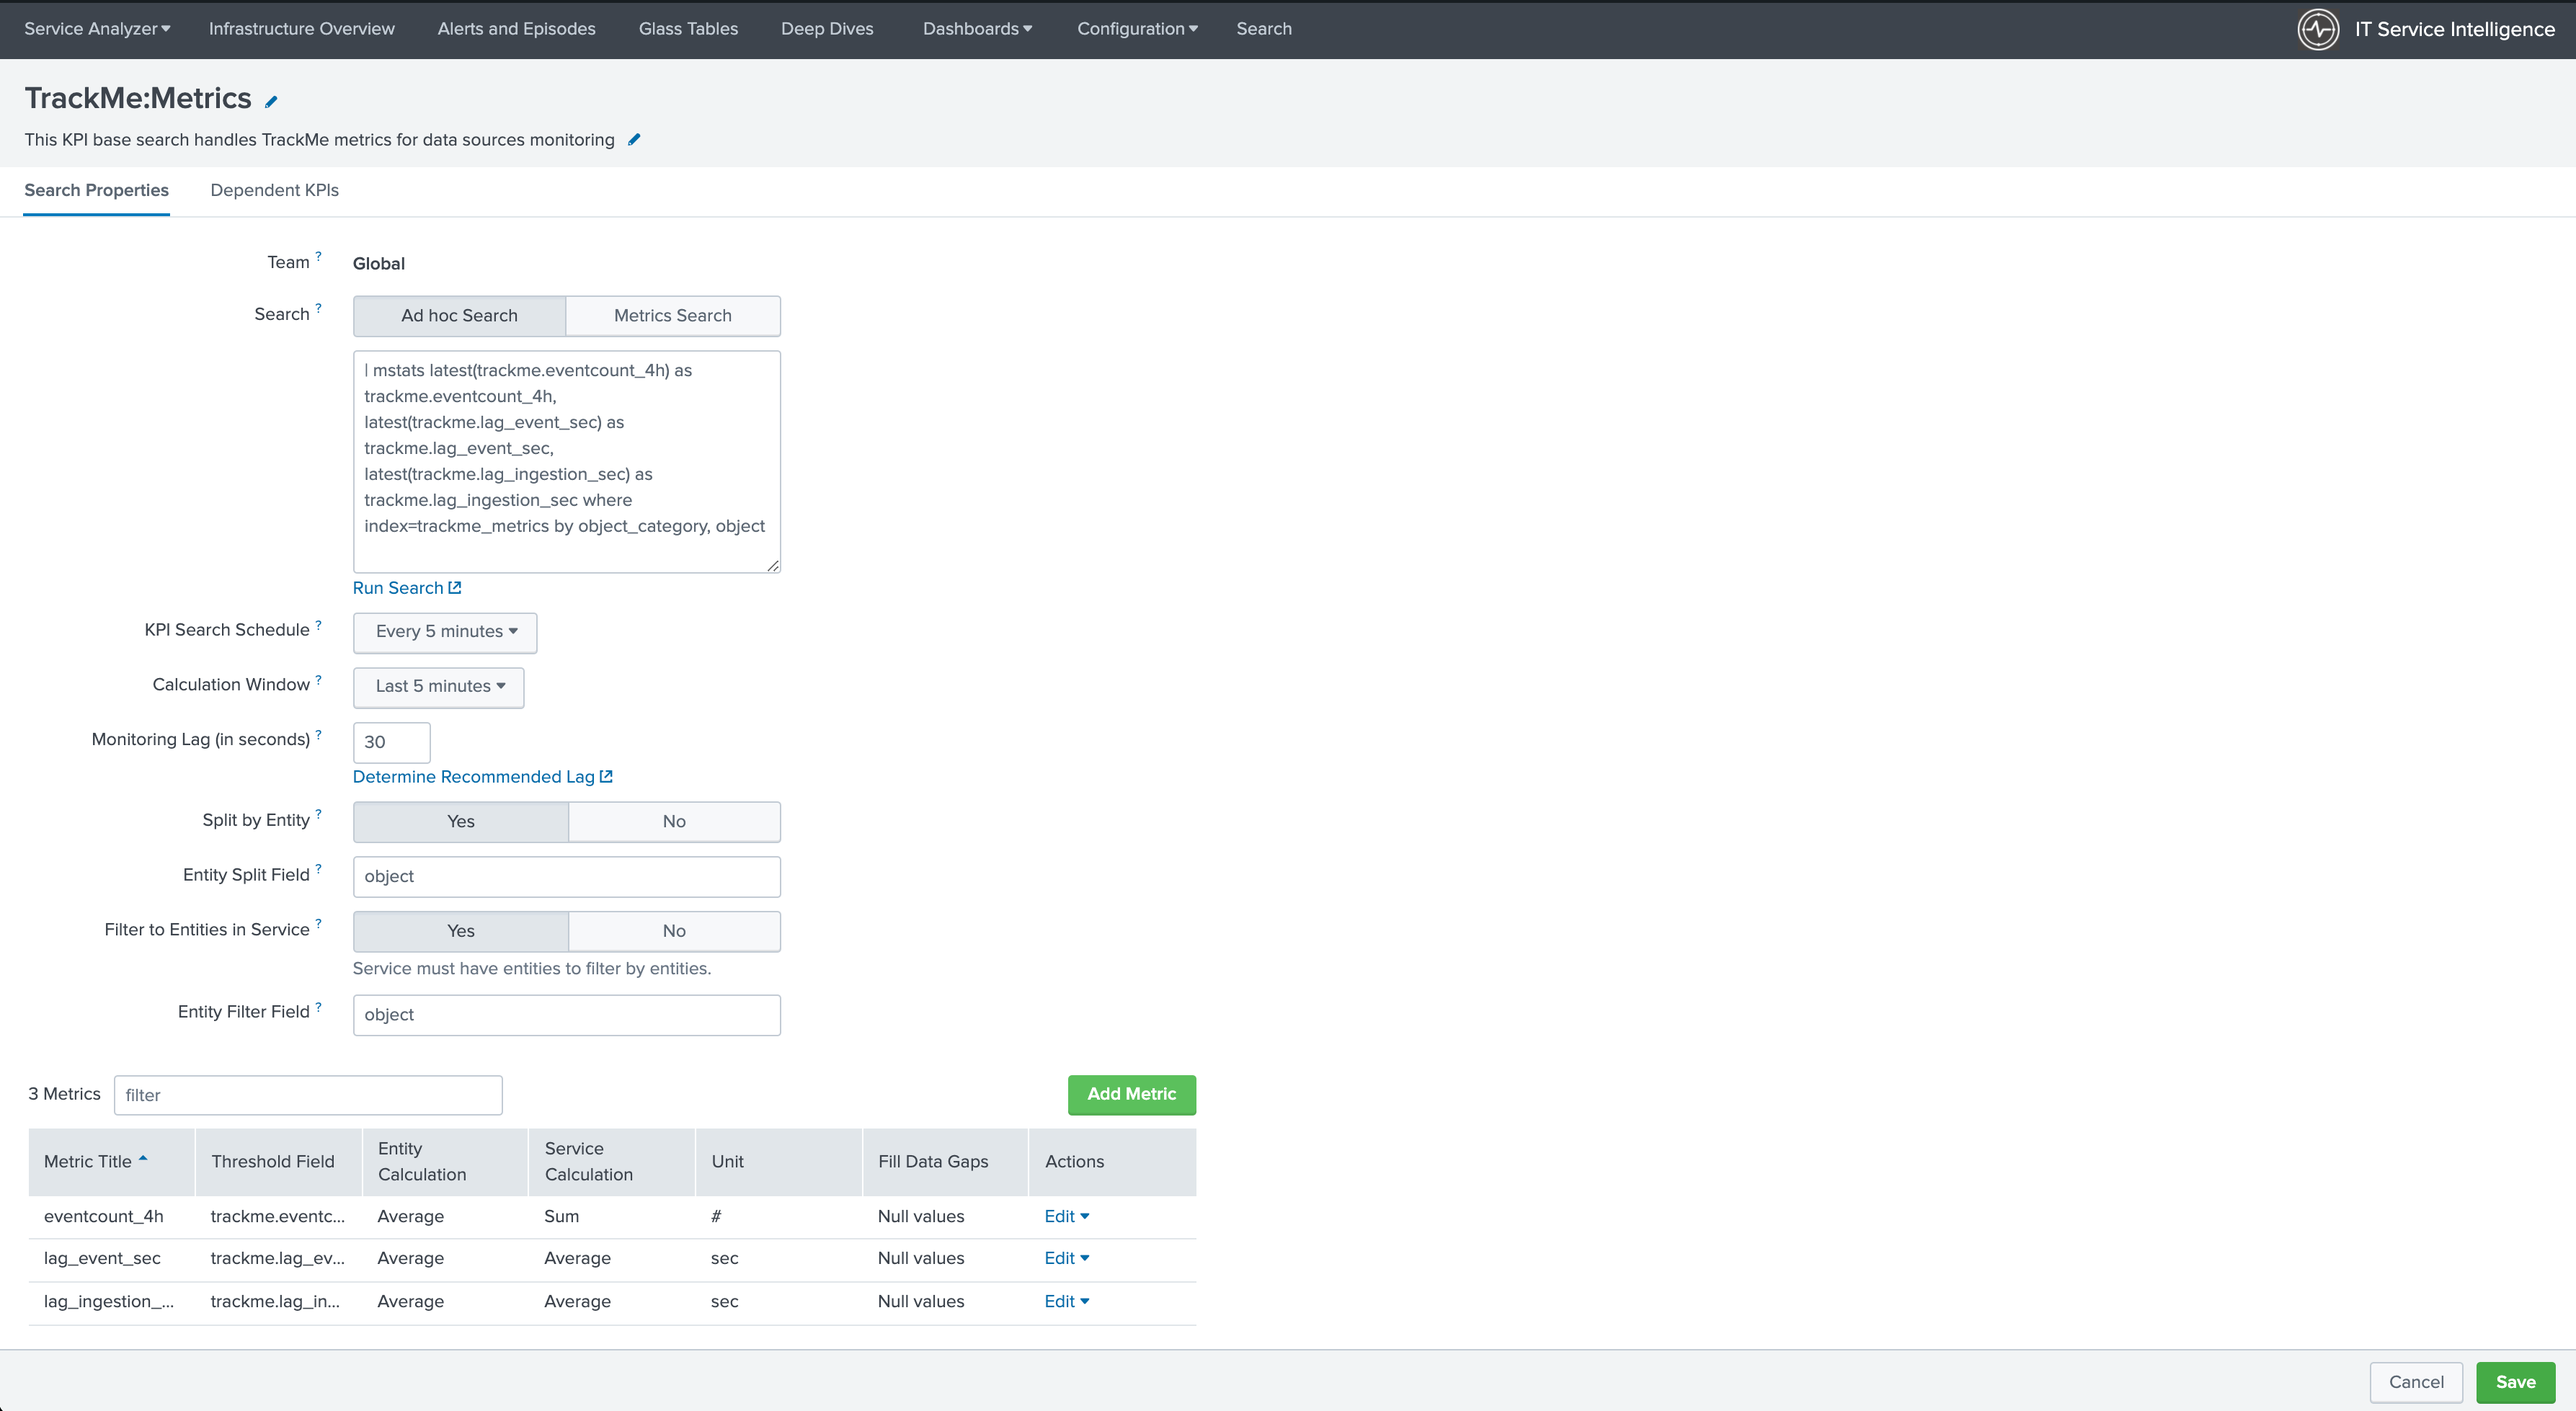
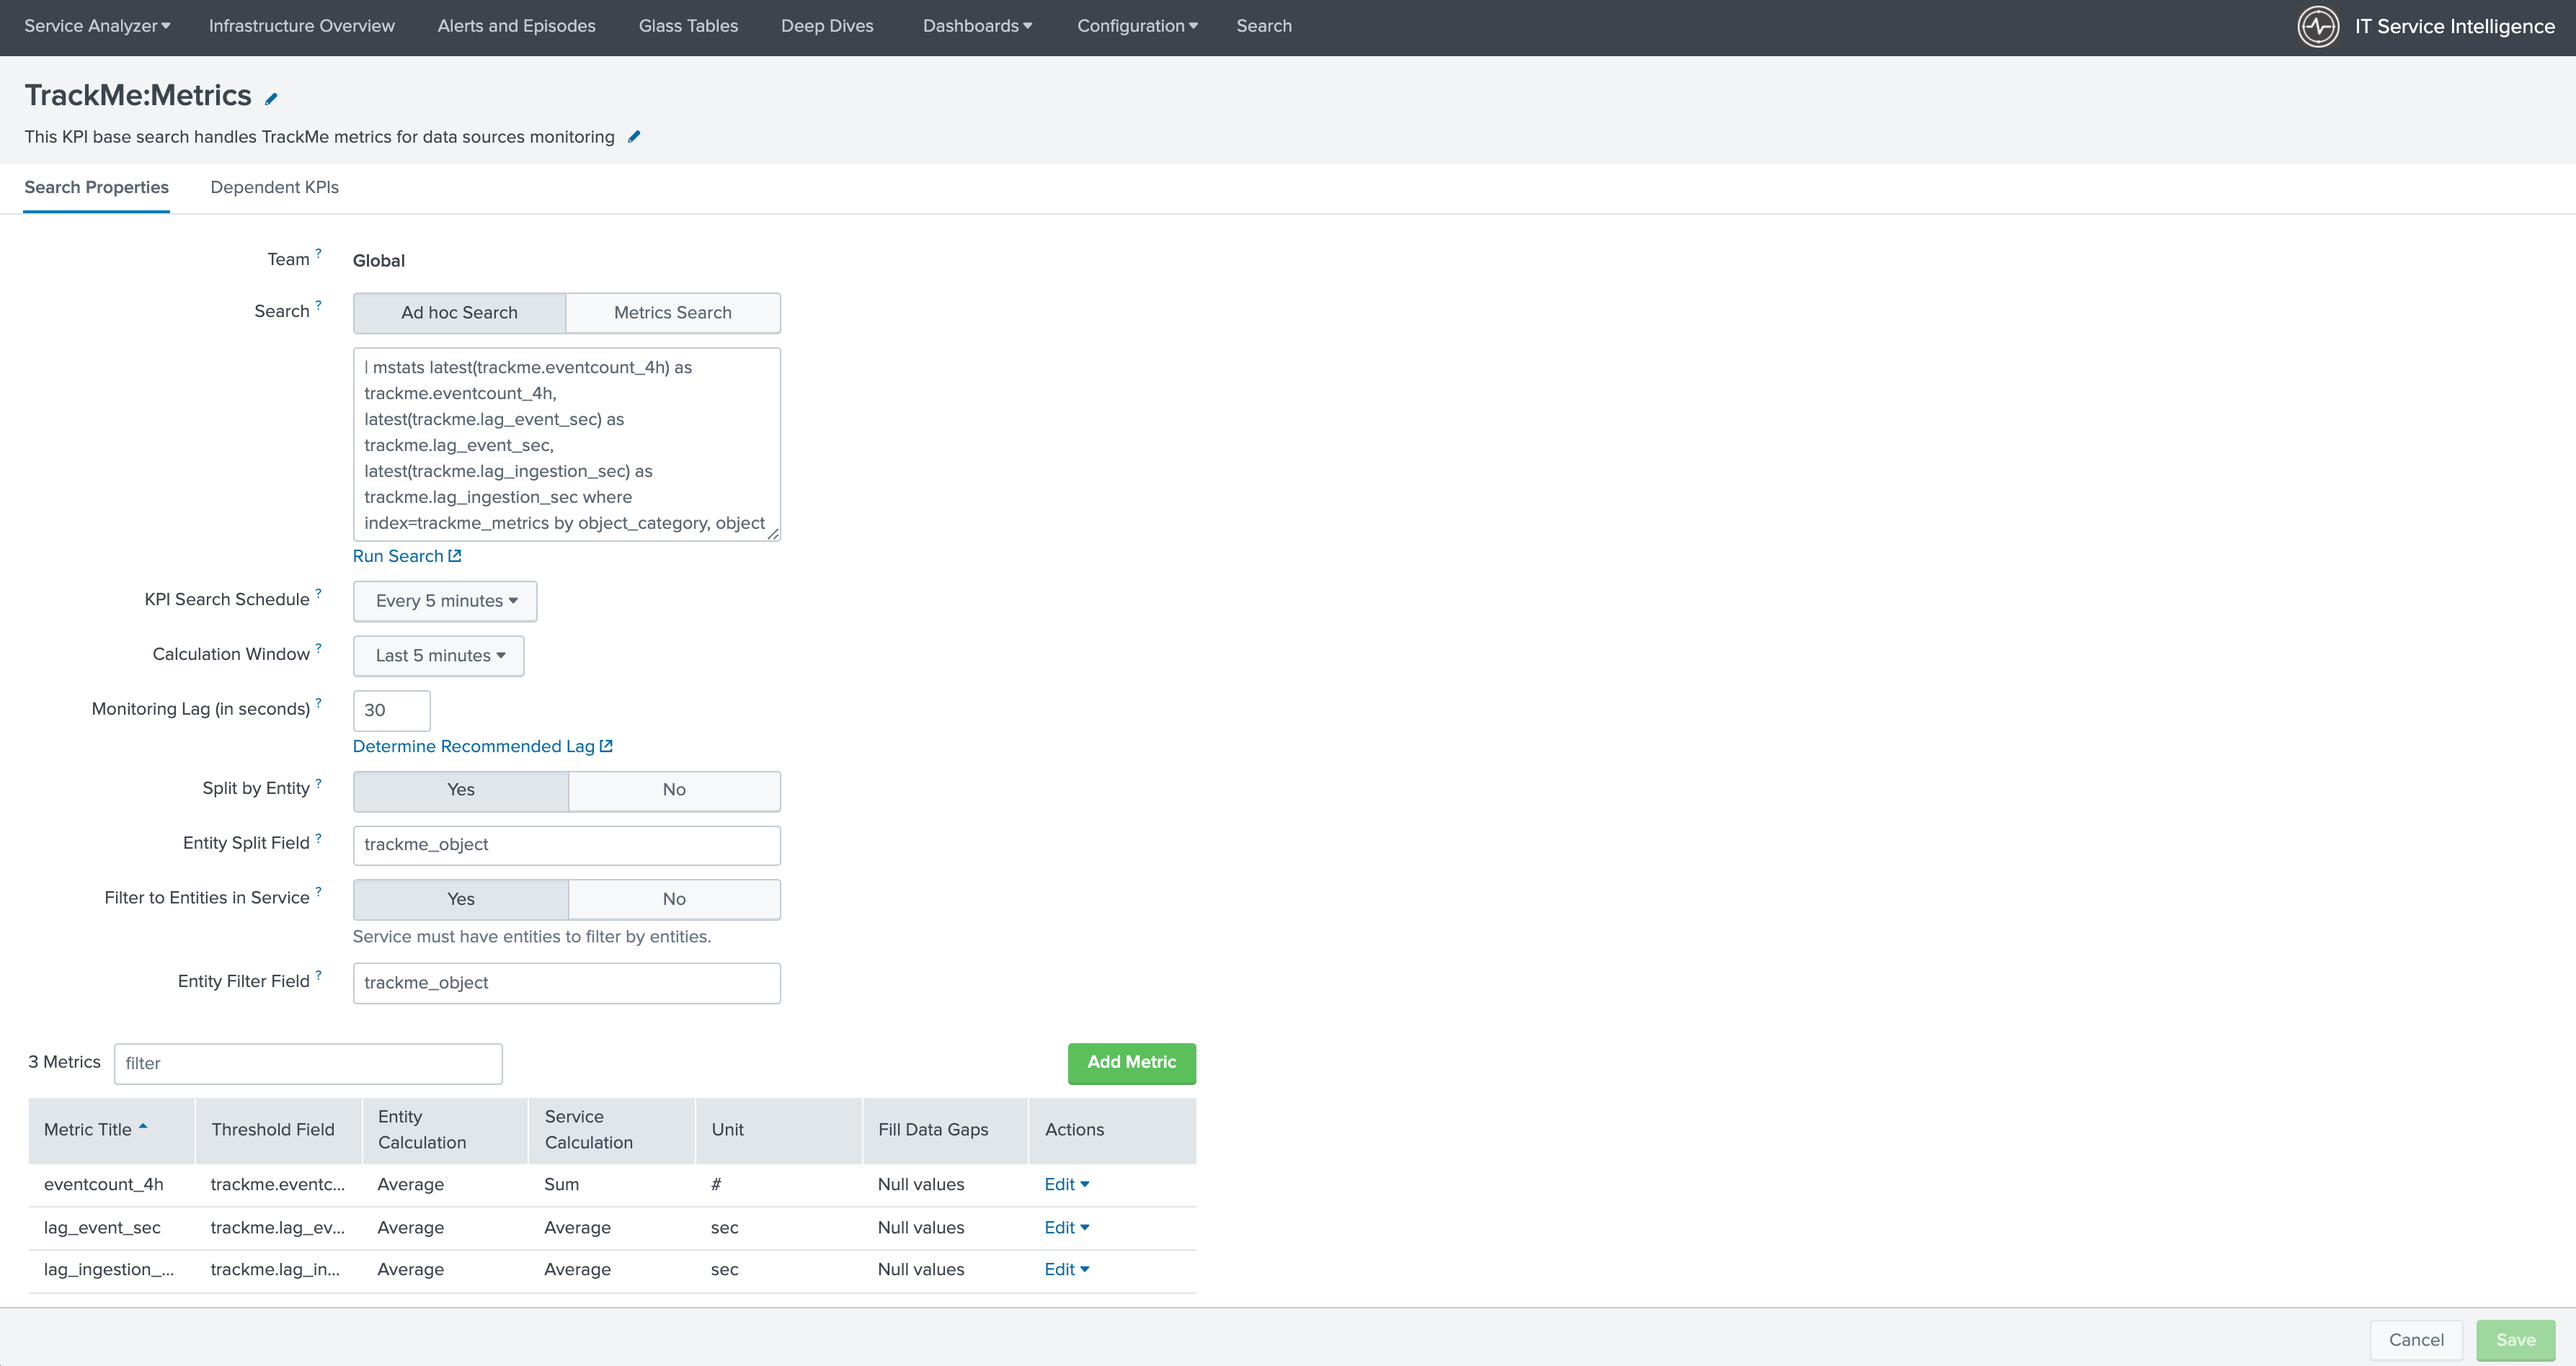
ITSI docs update

diff --git a/docs/itsi_integration.rst b/docs/itsi_integration.rst
@@ -137,15 +137,15 @@ Step 2: create the KPI base search for metrics
 
 ::
 
-   | mstats latest(trackme.eventcount_4h) as trackme.eventcount_4h, latest(trackme.lag_event_sec) as trackme.lag_event_sec, latest(trackme.lag_ingestion_sec) as trackme.lag_ingestion_sec where index=trackme_metrics by object_category, object
+   | mstats latest(trackme.eventcount_4h) as trackme.eventcount_4h, latest(trackme.lag_event_sec) as trackme.lag_event_sec, latest(trackme.lag_ingestion_sec) as trackme.lag_ingestion_sec where index=trackme_metrics by object_category, object | rename object_category as trackme_object_category, object as trackme_object
 
 - KPI Search Schedule: **Every 5 minutes**
 - Calculation Window: **Last 5 minutes**
 - Monitoring Lag (in seconds): **30**
 - Split by Entity: **yes**
-- Entity Split Field: **object**
+- Entity Split Field: **trackme_object**
 - Filter to Entities in Service: **yes**
-- Entity Filter Field: **object**
+- Entity Filter Field: **trackme_object**
 
 .. image:: img/itsi_v2/kpi_basesearch_metrics1.png
    :alt: kpi_basesearch_metrics1.png
@@ -220,14 +220,15 @@ Step 3: create the KPI base searches for summary statuses events
 
    `trackme_idx` source="current_state_tracking:*" priority=*
    | eval {priority}_{current_state} = current_state
+   | rename object_category as trackme_object_category, object as trackme_object
 
 - KPI Search Schedule: **Every 5 minutes**
 - Calculation Window: **Last 5 minutes**
 - Monitoring Lag (in seconds): **60**
 - Split by Entity: **yes**
-- Entity Split Field: **object**
+- Entity Split Field: **trackme_object**
 - Filter to Entities in Service: **yes**
-- Entity Filter Field: **object**
+- Entity Filter Field: **trackme_object**
 
 .. image:: img/itsi_v2/kpi_basesearch_metrics5.png
    :alt: kpi_basesearch_metrics5.png
